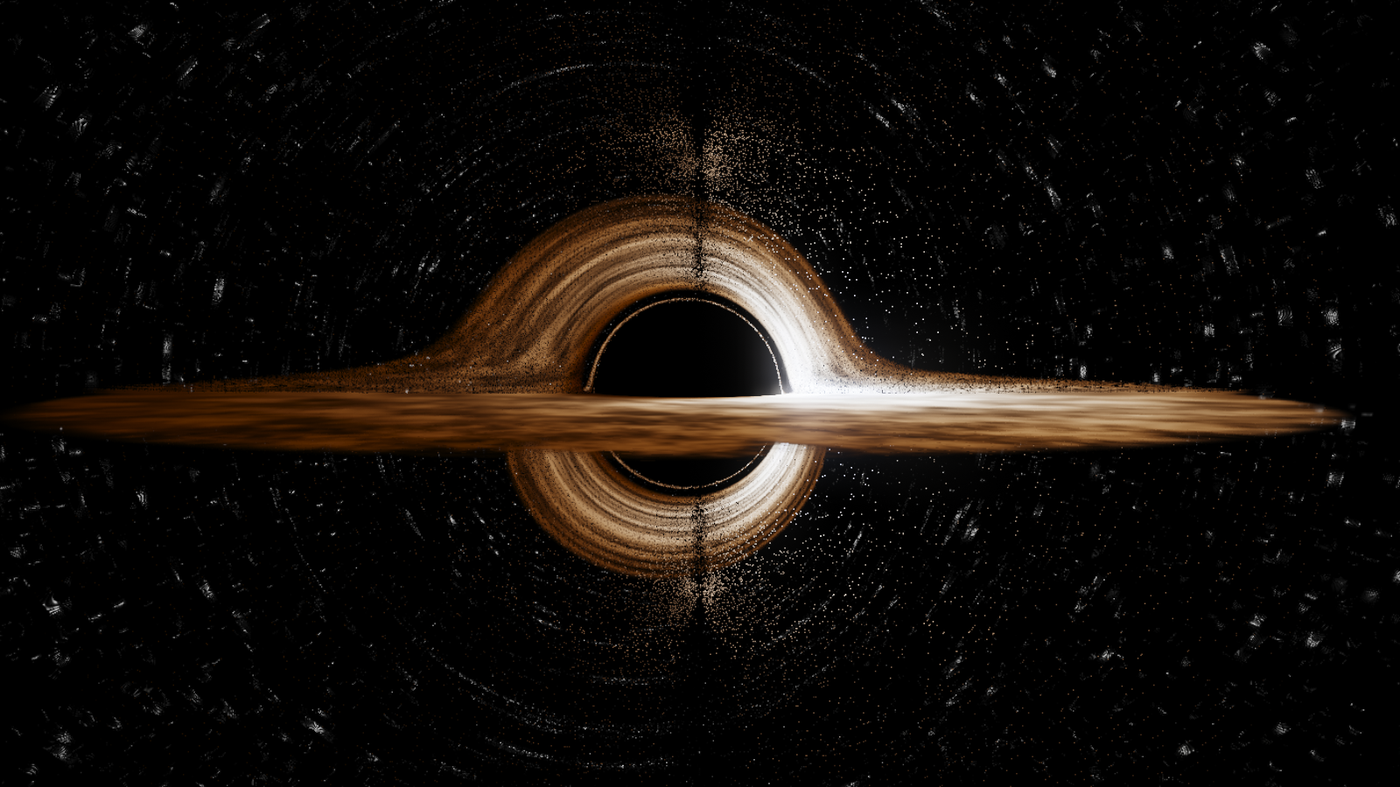
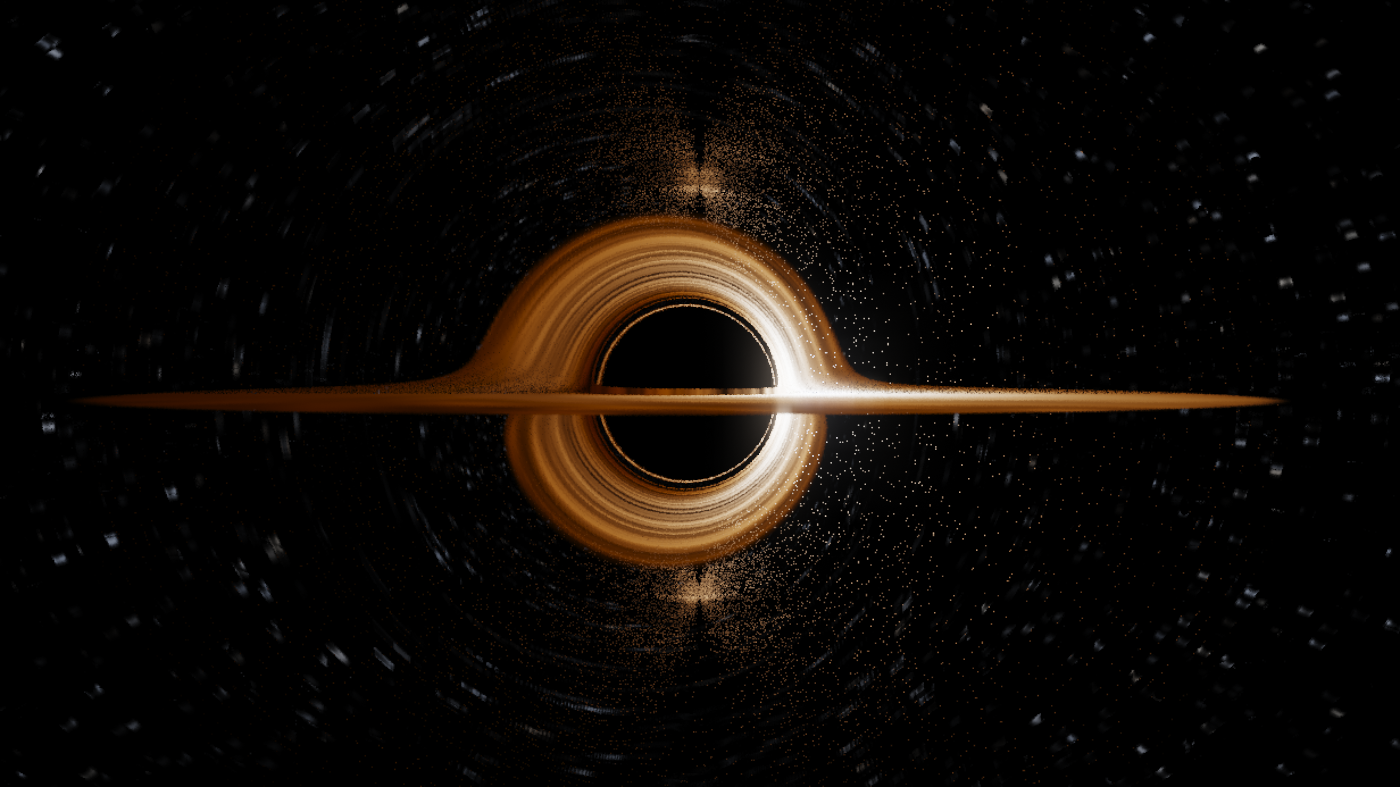
Add disk rotation and temperature CLI options and Replaced old photos
Expose disk rotation speed and temperature as command-line options, applying supplied values at startup. Refresh the documentation screenshots.

diff --git a/src/main.cpp b/src/main.cpp
@@ -21,6 +21,8 @@ void printUsage() {
         "  --yaw RAD          camera azimuth in radians (default 0.70)\n"
         "  --pitch RAD        camera elevation in radians (default 0.16)\n"
         "  --spin A           dimensionless spin a/M, 0..0.998 (default 0.6)\n"
+        "  --rotation X       disk rotation speed multiplier (default 1.0)\n"
+        "  --temperature K    disk temperature in kelvin (default 6800)\n"
         "  --time SECONDS     initial disk animation phase\n"
         "  --paused           start with the disk animation paused\n"
         "  --no-ui            hide the control panel\n"
@@ -97,6 +99,10 @@ int main(int argc, char** argv) {
             options.yaw = static_cast<float>(std::atof(next("--yaw")));
         } else if (std::strcmp(arg, "--pitch") == 0) {
             options.pitch = static_cast<float>(std::atof(next("--pitch")));
+        } else if (std::strcmp(arg, "--rotation") == 0) {
+            options.rotationSpeed = static_cast<float>(std::atof(next("--rotation")));
+        } else if (std::strcmp(arg, "--temperature") == 0) {
+            options.temperature = static_cast<float>(std::atof(next("--temperature")));
         } else if (std::strcmp(arg, "--time") == 0) {
             options.startTime = static_cast<float>(std::atof(next("--time")));
         } else if (std::strcmp(arg, "--bench") == 0) {

diff --git a/src/application.cpp b/src/application.cpp
@@ -34,6 +34,8 @@ int Application::run(const RunOptions& options) {
     SetTargetFPS(0);  // vsync-limited
 
     m_params.spin = options.spin;
+    if (options.rotationSpeed >= 0.0f) m_params.rotationSpeed = options.rotationSpeed;
+    if (options.temperature > 0.0f) m_params.temperature = options.temperature;
     m_params.showUi = !options.noUi;
     m_params.paused = options.paused;
     if (options.quality >= 0 && options.quality < kQualityCount) {

diff --git a/include/application.hpp b/include/application.hpp
@@ -20,6 +20,8 @@ struct RunOptions {
     float yaw = 0.70f;
     float pitch = 0.16f;
     float spin = 0.6f;
+    float rotationSpeed = -1.0f;   // < 0 keeps the default
+    float temperature = -1.0f;     // < 0 keeps the default
     float distance = 45.0f;   // matches CameraController's default view
     int quality = -1;  // -1 keeps the default preset
     int benchFrames = 0;  // > 0: render this many unthrottled frames, report timings
